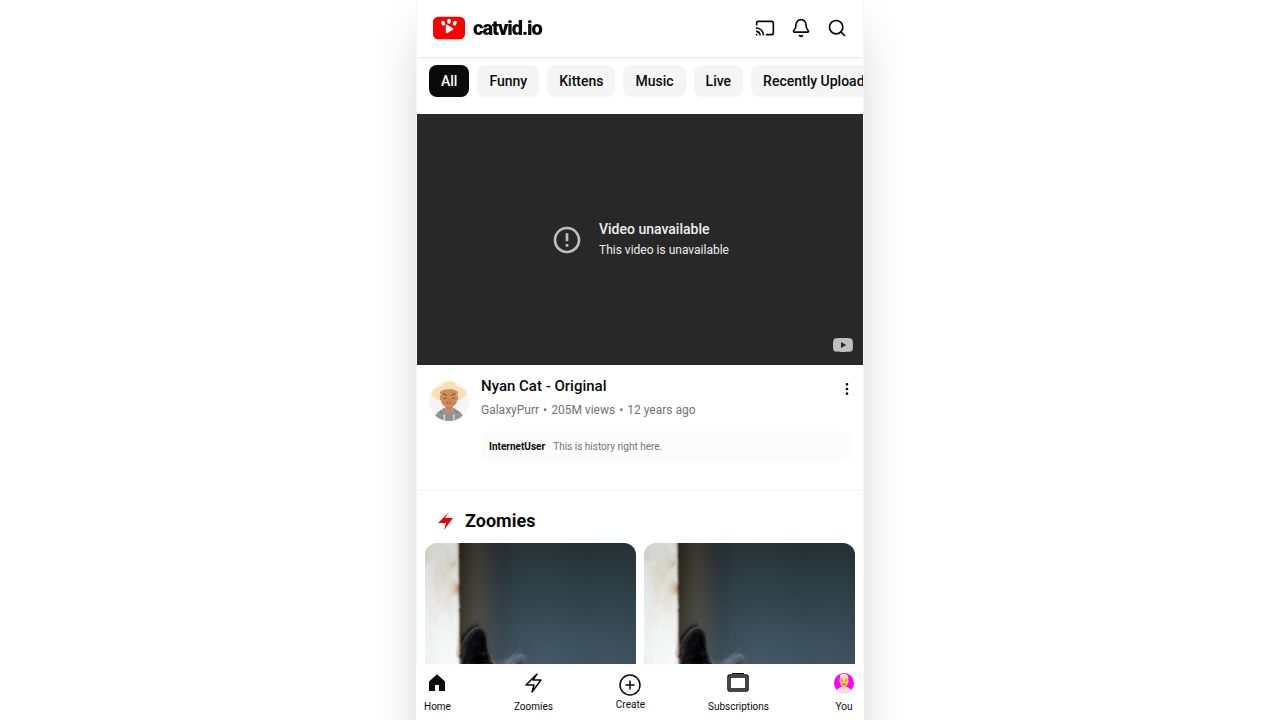
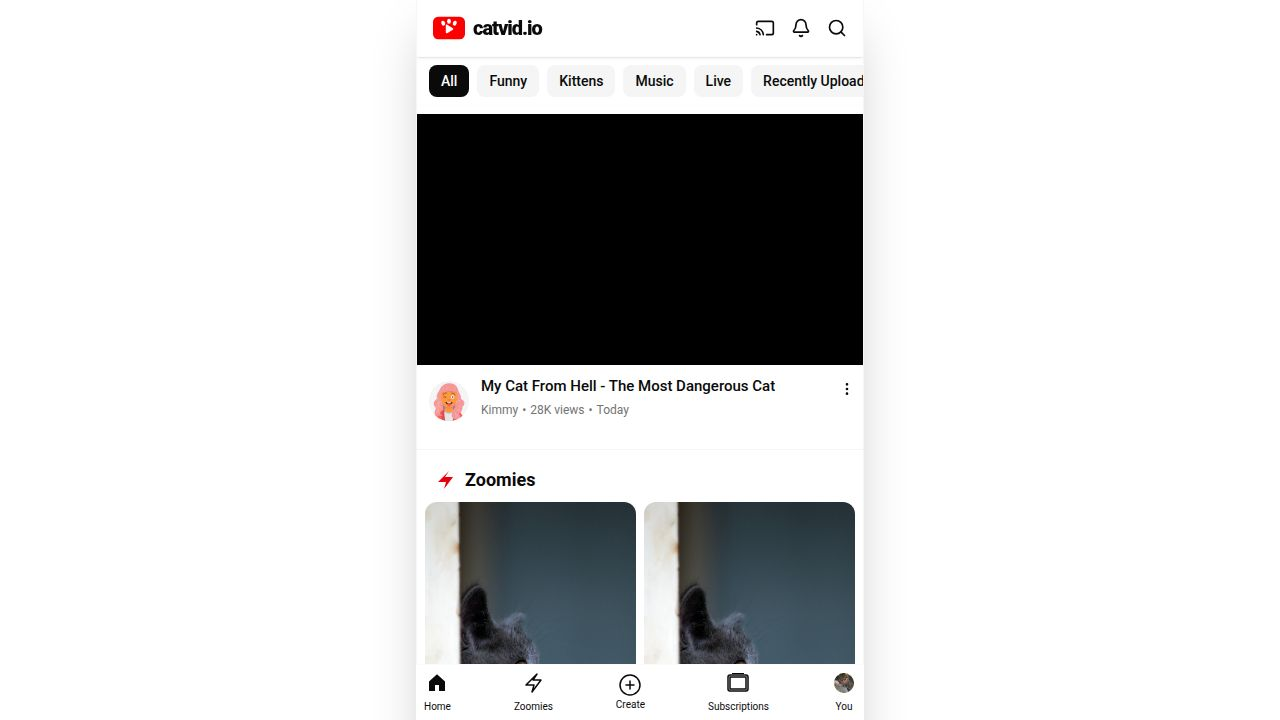
Update profile display to show actual user data instead of mock
Replaces mock user data with fetched current user data in the Layout component for accurate profile avatar and color display.

Replit-Commit-Author: Agent
Replit-Commit-Session-Id: 219dba26-c5c7-407c-955d-f5845a96aa23
Replit-Commit-Checkpoint-Type: full_checkpoint
Replit-Commit-Event-Id: b5936e4a-4fef-4a1b-8639-9695b0d1ad8d
Replit-Commit-Screenshot-Url: https://storage.googleapis.com/screenshot-production-us-central1/736a2394-3e50-43e3-b386-40de6a914f2e/219dba26-c5c7-407c-955d-f5845a96aa23/PQd7Uek
Replit-Helium-Checkpoint-Created: true

Changed region(s): [[0.3125, 0.1528, 0.6875, 0.5806], [0.3125, 0.6111, 0.6875, 0.9472], [0.6562, 0.9167, 0.6875, 0.9778]]

diff --git a/client/src/components/Layout.tsx b/client/src/components/Layout.tsx
@@ -1,9 +1,16 @@
 import { Link, useLocation } from "wouter";
 import { ZoomiesLogo, HomeNavIcon, SubscriptionsNavIcon, UploadNavIcon } from "@/components/Branding";
-import { MOCK_USER } from "@/lib/mock-data";
+import { useQuery } from "@tanstack/react-query";
+import { fetchCurrentUser } from "@/lib/api";
 
 export function Layout({ children }: { children: React.ReactNode }) {
   const [location] = useLocation();
+  
+  const { data: user } = useQuery({
+    queryKey: ["currentUser"],
+    queryFn: fetchCurrentUser,
+    staleTime: 30000,
+  });
 
   const isActive = (path: string) => location === path;
 
@@ -50,8 +57,8 @@ export function Layout({ children }: { children: React.ReactNode }) {
         <Link href="/profile">
           <a className={`flex flex-col items-center gap-1 w-full py-1 ${isActive("/profile") ? "text-foreground" : "text-foreground"}`}>
             <div className={`w-6 h-6 rounded-full overflow-hidden border ${isActive("/profile") ? "border-foreground" : "border-transparent"}`} style={{ padding: '1px' }}>
-               <div className="w-full h-full rounded-full overflow-hidden" style={{ backgroundColor: MOCK_USER.avatarColor }}>
-                  <img src={MOCK_USER.avatar} alt="You" className="w-full h-full object-cover" />
+               <div className="w-full h-full rounded-full overflow-hidden" style={{ backgroundColor: user?.avatarColor || "#FF0055" }}>
+                  <img src={user?.avatar || "/api/placeholder-cat.jpg"} alt="You" className="w-full h-full object-cover" />
                </div>
             </div>
             <span className="text-[10px] font-normal">You</span>
